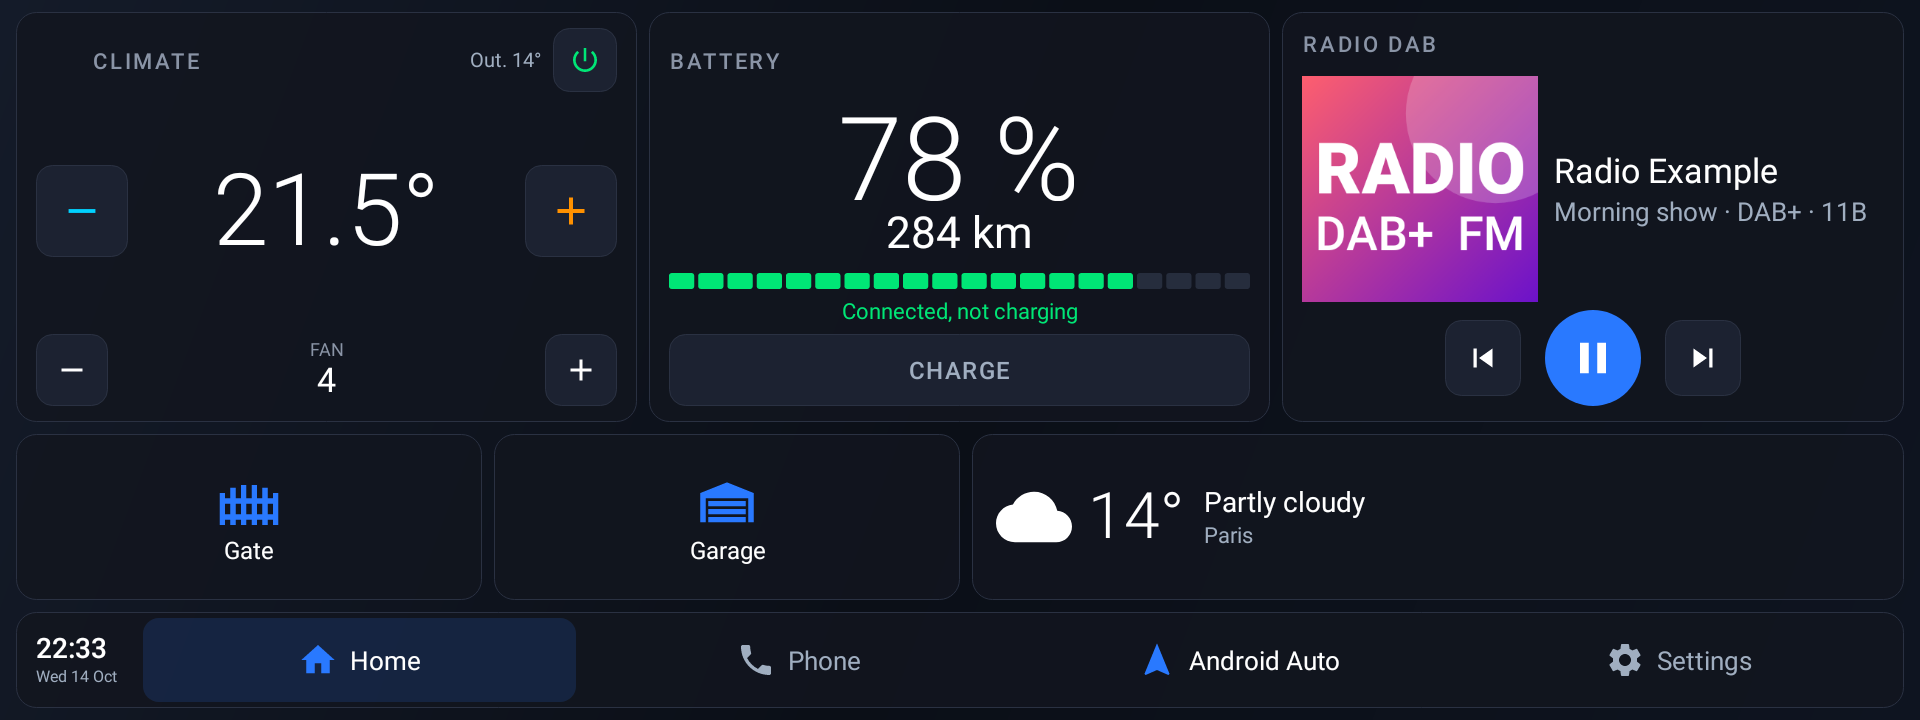
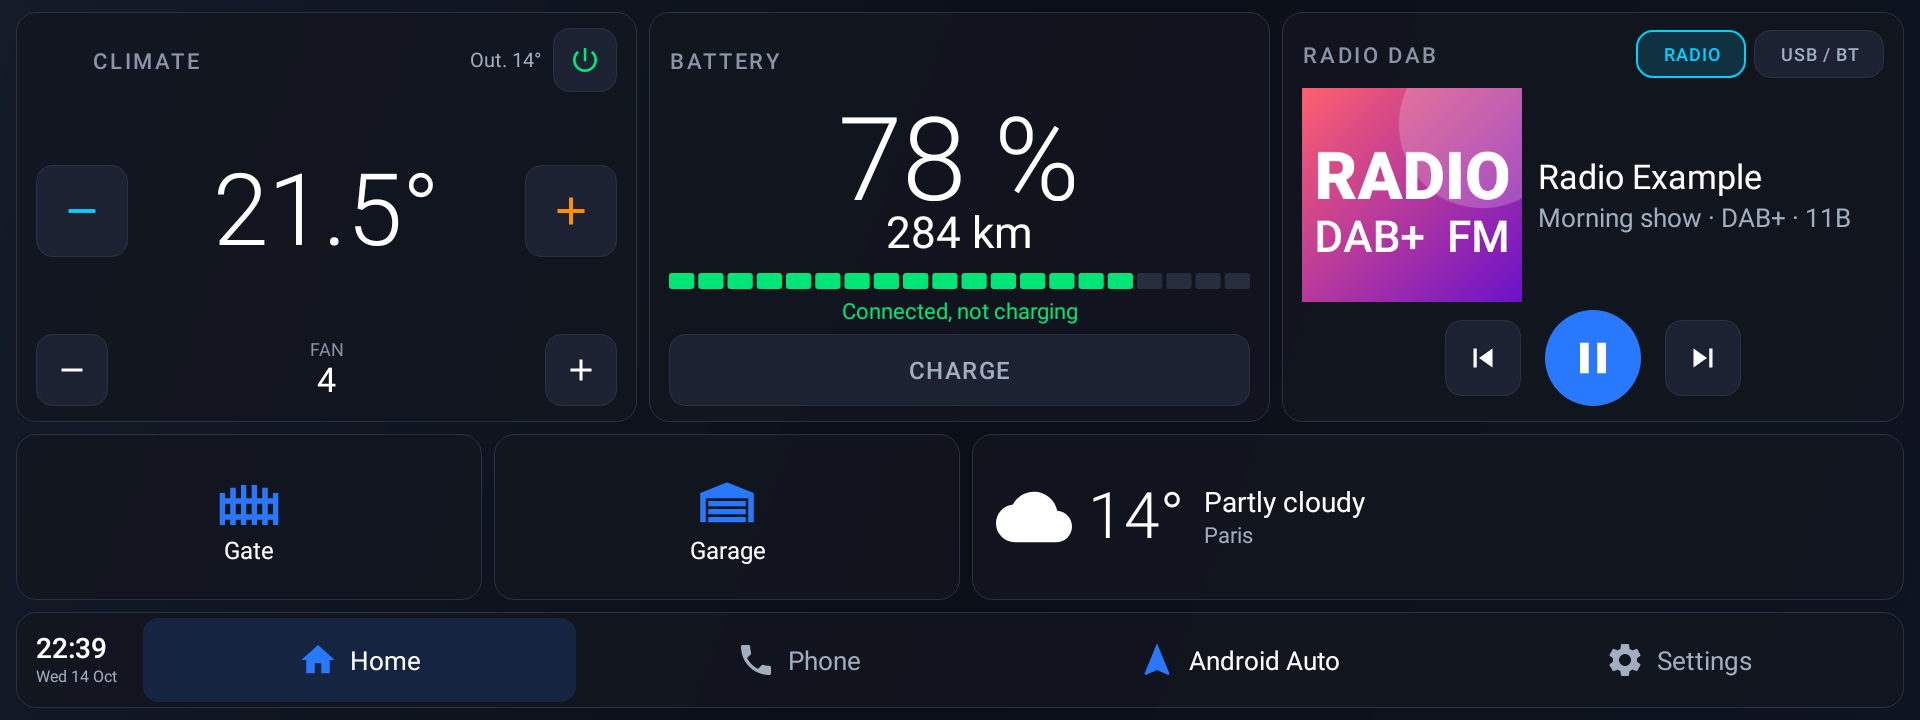
Simple home: RADIO and USB/BT source chips in the media panel

Changed region(s): [[0.6562, 0.0306, 0.9688, 0.4278], [0.8438, 0.0306, 0.9688, 0.1222], [0.0312, 0.8861, 0.0625, 0.9167]]

diff --git a/app/src/main/java/app/mg4dash/ui/SimpleHome.kt b/app/src/main/java/app/mg4dash/ui/SimpleHome.kt
@@ -57,6 +57,8 @@ class SimpleHome(private val a: AppCompatActivity) {
     private lateinit var mediaArtist: TextView
     private lateinit var mediaArt: ImageView
     private lateinit var mediaPlay: ImageButton
+    private lateinit var srcRadio: TextView
+    private lateinit var srcMedia: TextView
 
     private lateinit var weatherIcon: ImageView
     private lateinit var weatherTemp: TextView
@@ -161,14 +163,21 @@ class SimpleHome(private val a: AppCompatActivity) {
     private fun buildMedia(): LinearLayout {
         val p = kit.panel()
         mediaSource = title(a.getString(R.string.title_media))
-        p.addView(mediaSource, kit.lp(-1, kit.dp(40)))
+        // Puces de source : elles basculent la source affichée (sans ouvrir l'appli)
+        val head = kit.row()
+        head.addView(mediaSource, kit.lp(0, -2, 1f))
+        srcRadio = kit.toggleTile(a.getString(R.string.src_radio)) { MediaHub.select("com.saicmotor.radio") }.apply { textSize = 18f }
+        srcMedia = kit.toggleTile(a.getString(R.string.src_media)) { MediaHub.selectUsbBt() }.apply { textSize = 18f }
+        head.addView(srcRadio, kit.lp(kit.dp(110), kit.dp(48)))
+        head.addView(srcMedia, kit.lp(kit.dp(130), kit.dp(48), l = 8))
+        p.addView(head, kit.lp(-1, kit.dp(52)))
 
         val info = kit.row().apply { isClickable = true; isFocusable = true }
         val frame = RoundedFrame(a)
         mediaArt = ImageView(a).apply { scaleType = ImageView.ScaleType.CENTER_CROP }
         frame.setBackgroundResource(R.drawable.bg_art)
         frame.addView(mediaArt, android.widget.FrameLayout.LayoutParams(-1, -1))
-        info.addView(frame, kit.lp(kit.dp(236), kit.dp(236)))
+        info.addView(frame, kit.lp(kit.dp(220), kit.dp(220)))
         val texts = kit.column()
         mediaTitle = big("", 34f).apply { maxLines = 3; ellipsize = android.text.TextUtils.TruncateAt.END }
         mediaArtist = kit.text("", 26f, R.color.text_sub).apply { maxLines = 2; ellipsize = android.text.TextUtils.TruncateAt.END }
@@ -341,6 +350,8 @@ class SimpleHome(private val a: AppCompatActivity) {
             mediaTitle.text = m.title.ifEmpty { m.source }
             mediaArtist.text = listOf(m.artist, m.album).filter { it.isNotBlank() }.joinToString(" · ")
         }
+        srcRadio.isSelected = m.packageName == "com.saicmotor.radio"
+        srcMedia.isSelected = m.packageName == "com.saicmotor.media" || m.packageName == "com.android.bluetooth"
         mediaArt.setImageBitmap(m.art)
         mediaPlay.setImageResource(if (m.playing) R.drawable.ic_pause else R.drawable.ic_play)
         mediaPlay.isEnabled = m.available

diff --git a/README.md b/README.md
@@ -13,7 +13,7 @@ Climate (temperature, fan, AUTO, A/C, recirculation, defrost), energy (battery, 
 Long press the Android Auto button in the dock to replace it with the app of your choice.
 
 ### Simple home layout
-![Simple home](docs/screenshots/home_simple.png?v=1)
+![Simple home](docs/screenshots/home_simple.png?v=2)
 An alternative, calmer home screen for those who want fewer buttons and bigger text: three large panels (climate, battery, media), two configurable shortcuts and today's weather, with a reduced dock (Home, Phone, Android Auto, Settings). Choose it in the launcher settings, under "Home layout"; tap a panel to open the matching page.
 
 ### Shortcuts and Home Assistant
